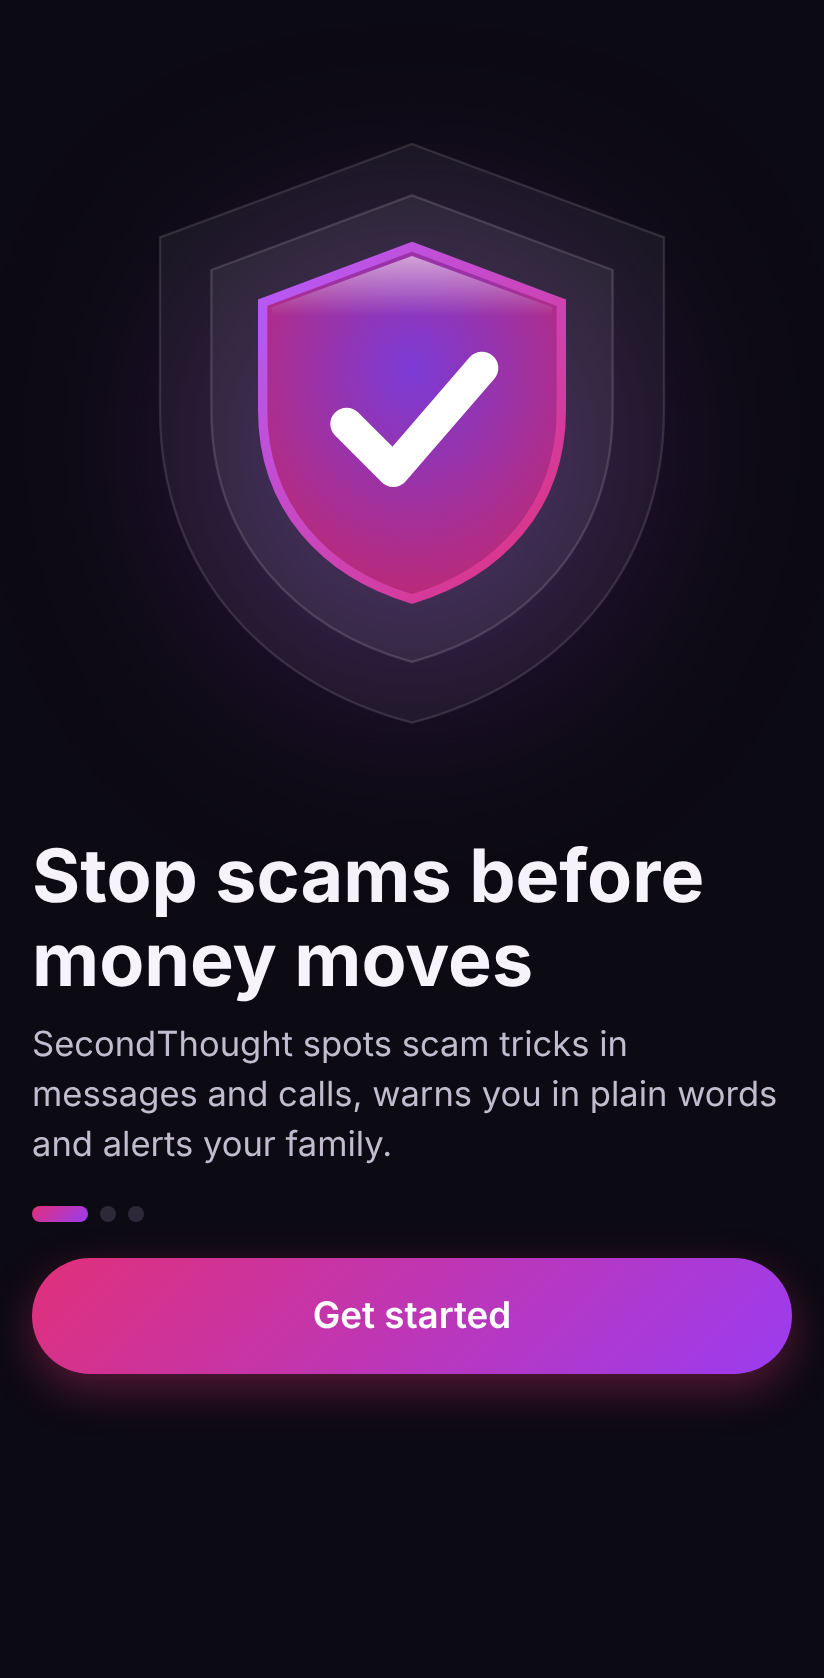
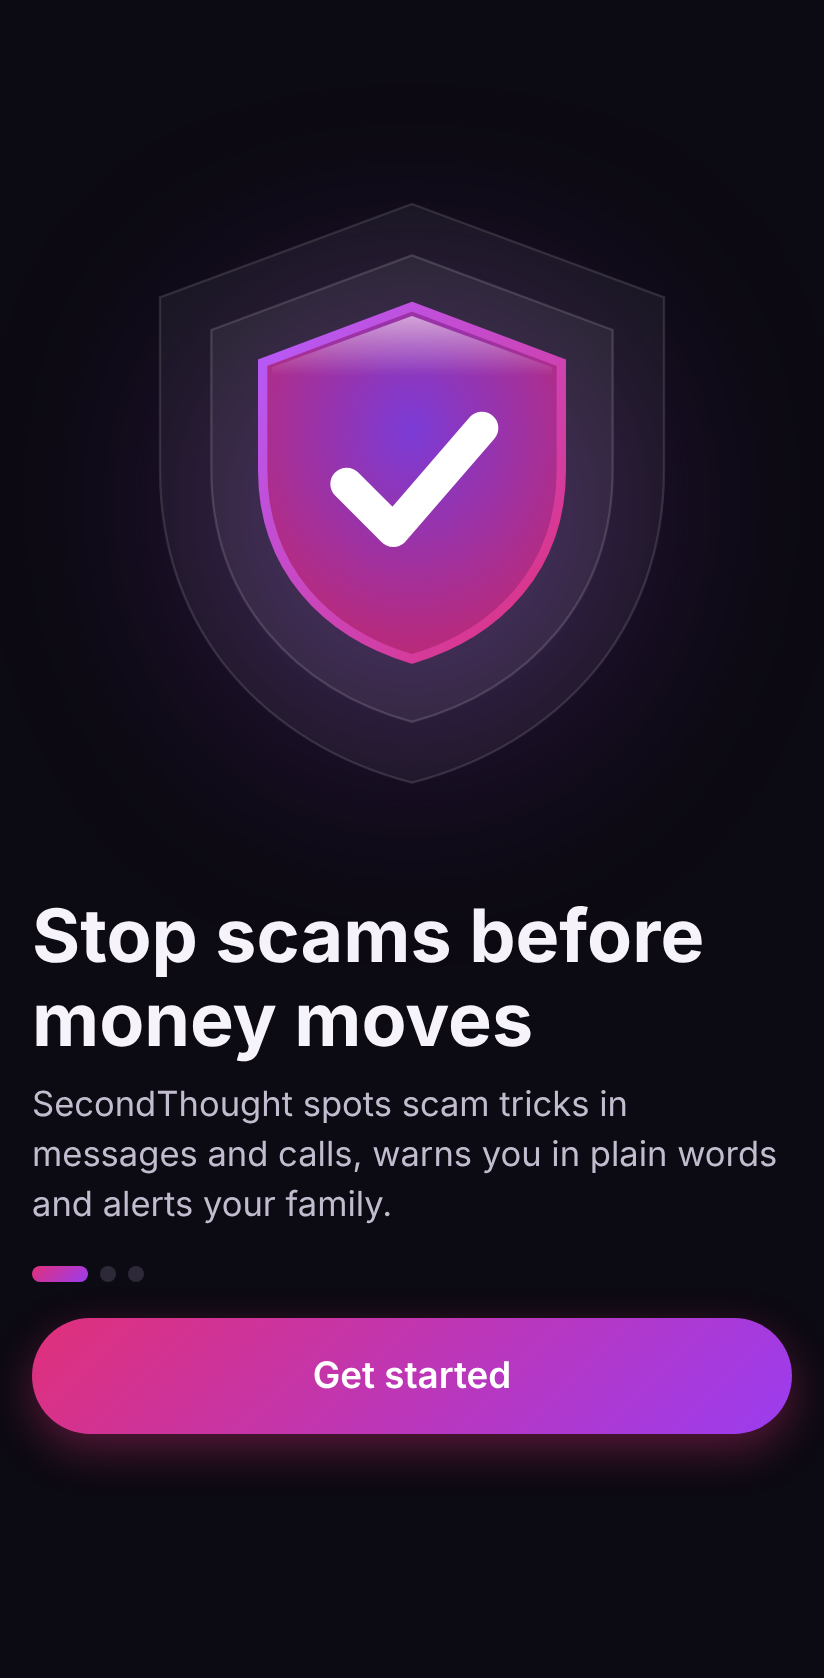
Parent setup means simple mode; sign out; status-bar spacing
- 'Setting up for a parent': asks who they should call for help, turns on large text and a simple
  home (big green Call button, Help card, the two main actions; stats and ScammerTrap stay in More)
- More -> Sign out (with confirmation) removes the profile and everything saved on this phone
- Welcome / profile screens no longer run under the status bar

Changed region(s): [[0.0303, 0.4958, 0.9709, 0.8677], [0.2427, 0.093, 0.7585, 0.4338]]

diff --git a/src/i18n_app.js b/src/i18n_app.js
@@ -1,6 +1,11 @@
 // Text for the Android app's own screens (easy home, unknown caller, setup, more).
 export const APP = {
   en: {
+    care_title: "Who should {name} call for help?", care_sub: "When something looks like a scam, {name} can call or message this person with one tap. Usually that's you.",
+    care_simple: "Simple mode is on for older users: large text and a simpler home screen. You can change it in More → Settings.",
+    care_later: "I'll do this later", simple_note: "Simple mode · set up by family",
+    signout: "Sign out", signout_q: "Sign out of SecondThought?", signout_sub: "This removes your profile and everything SecondThought saved on this phone: family contact, family code and counters. You can set it up again any time.",
+    signout_yes: "Sign out and remove", signout_no: "Cancel",
     splash_tag: "Think twice. Stay safe.", lock_title: "SecondThought is locked", lock_hello: "Welcome back, {name}",
     lock_sub: "Unlock with your fingerprint, face or phone PIN.", lock_unlock: "Unlock", lock_prompt_title: "Unlock SecondThought",
     lock_prompt_sub: "Use your fingerprint, face or phone PIN", lock_confirm_sub: "Confirm it's you to turn on the app lock",
@@ -70,6 +75,11 @@ export const APP = {
     family_title: "Family", family_watch: "I want alerts about someone else", family_watch_sub: "Enter the code from their phone.",
   },
   hi: {
+    care_title: "{name} मदद के लिए किसे फोन करें?", care_sub: "जब कुछ स्कैम जैसा लगे, {name} एक टैप में इस व्यक्ति को फोन या मैसेज कर सकते हैं। आमतौर पर वह आप हैं।",
+    care_simple: "बुज़ुर्गों के लिए आसान मोड चालू है: बड़े अक्षर और आसान होम स्क्रीन। इसे और → सेटिंग में बदल सकते हैं।",
+    care_later: "बाद में करूँगा", simple_note: "आसान मोड · परिवार ने सेट किया",
+    signout: "साइन आउट", signout_q: "SecondThought से साइन आउट करें?", signout_sub: "इससे आपकी प्रोफ़ाइल और इस फोन में सेव सब कुछ हट जाएगा: परिवार संपर्क, परिवार कोड और गिनती। आप कभी भी फिर से सेट कर सकते हैं।",
+    signout_yes: "साइन आउट करें और हटाएँ", signout_no: "रद्द करें",
     splash_tag: "दो बार सोचें। सुरक्षित रहें।", lock_title: "SecondThought लॉक है", lock_hello: "फिर से स्वागत है, {name}",
     lock_sub: "फिंगरप्रिंट, चेहरे या फोन पिन से खोलें।", lock_unlock: "खोलें", lock_prompt_title: "SecondThought खोलें",
     lock_prompt_sub: "फिंगरप्रिंट, चेहरा या फोन पिन इस्तेमाल करें", lock_confirm_sub: "ऐप लॉक चालू करने के लिए पुष्टि करें",
@@ -138,6 +148,11 @@ export const APP = {
     family_title: "परिवार", family_watch: "मुझे किसी और के अलर्ट चाहिए", family_watch_sub: "उनके फोन पर दिखा कोड डालें।",
   },
   es: {
+    care_title: "¿A quién debe llamar {name} si necesita ayuda?", care_sub: "Cuando algo parezca una estafa, {name} podrá llamar o escribir a esta persona con un toque. Normalmente eres tú.",
+    care_simple: "Modo sencillo activado para personas mayores: letra grande y una pantalla de inicio más simple. Puedes cambiarlo en Más → Ajustes.",
+    care_later: "Lo haré más tarde", simple_note: "Modo sencillo · configurado por la familia",
+    signout: "Cerrar sesión", signout_q: "¿Cerrar sesión en SecondThought?", signout_sub: "Se borrará tu perfil y todo lo que SecondThought guardó en este teléfono: contacto familiar, código familiar y contadores. Puedes volver a configurarlo cuando quieras.",
+    signout_yes: "Cerrar sesión y borrar", signout_no: "Cancelar",
     splash_tag: "Piénsalo dos veces. Mantente a salvo.", lock_title: "SecondThought está bloqueado", lock_hello: "Bienvenido de nuevo, {name}",
     lock_sub: "Desbloquea con tu huella, cara o PIN del teléfono.", lock_unlock: "Desbloquear", lock_prompt_title: "Desbloquear SecondThought",
     lock_prompt_sub: "Usa tu huella, cara o PIN del teléfono", lock_confirm_sub: "Confirma que eres tú para activar el bloqueo",

diff --git a/src/pages/Home.jsx b/src/pages/Home.jsx
@@ -22,6 +22,7 @@ export default function Home({ go, online }) {
   const trap = trapSummary();
   const cs = getCheckStats();
   const profile = getProfile();
+  const simple = profile?.role === "family";   // set up for a parent: simple mode
   const total = cs.scam + cs.suspicious + cs.safe;
   useEffect(() => { api.health().then((h) => setNetwork(h.intel_reports)).catch(() => {}); }, []);
 
@@ -72,6 +73,17 @@ export default function Home({ go, online }) {
       {isNative && st && !st.screeningSupported ? <div className="banner info"><Icon name="info" />{t("status_old_android")}</div> : null}
       {online === false ? <div className="banner info"><span className="pulse" />{t("server_waking")}</div> : null}
 
+      {simple ? (
+        <>
+          <div className="tiny">{t("simple_note")}</div>
+          {contact ? <button className="callbig" onClick={callFamily}><span className="ico"><Icon name="phone" /></span><span><strong>{t("call_name", { name: contact.name })}</strong><small>{contact.phone}</small></span></button> : null}
+          <button className="bigaction danger" onClick={help} disabled={busy}>
+            <span className="ico"><Icon name="users" /></span>
+            <span><strong>{t("home_help")}</strong><small>{helper ? t("home_help_sub", { name: helper }) : t("home_help_none")}</small></span>
+          </button>
+        </>
+      ) : (
+        <>
       <div className="summary">
         <h2>{t("sum_title")} <button className="iconbtn" style={{ width: 38, height: 38 }} onClick={() => go("/check")} aria-label={t("home_check")}><Icon name="search" /></button></h2>
         <VerdictGauge scam={cs.scam} suspicious={cs.suspicious} safe={cs.safe} label={`${total} ${t("sum_checked")}`} />
@@ -83,6 +95,9 @@ export default function Home({ go, online }) {
         <div className="statchip"><span className="tag sus">{t("chip_sus")}</span><span className="n">{cs.suspicious}</span><span className="l">{t("chip_note")}</span></div>
         <div className="statchip"><span className="tag safe">{t("chip_safe")}</span><span className="n">{cs.safe}</span><span className="l">{t("chip_note")}</span></div>
       </div>
+
+        </>
+      )}
 
       <div className="sectiontitle">{t("what_to_do")}</div>
       <div className="quickgrid">
@@ -96,6 +111,8 @@ export default function Home({ go, online }) {
         </button>
       </div>
 
+      {!simple ? (
+        <>
       <div className="card trap">
         <div className="row" style={{ alignItems: "flex-start", gap: 14 }}>
           <span className="trapico"><Icon name="bot" /></span>
@@ -115,6 +132,8 @@ export default function Home({ go, online }) {
         <span className="ico"><Icon name="users" /></span>
         <span><strong>{t("home_help")}</strong><small>{helper ? t("home_help_sub", { name: helper }) : t("home_help_none")}</small></span>
       </button>
+        </>
+      ) : null}
 
       {msg ? <div className={`banner ${msg.ok ? "good" : "bad"}`} role="status"><Icon name={msg.ok ? "check" : "alert"} />{msg.text}</div> : null}
       {contact && (msg?.call || msg?.ok === false) ? (

diff --git a/src/pages/More.jsx b/src/pages/More.jsx
@@ -1,5 +1,8 @@
 import Icon from "../components/Icon.jsx";
+import { useState } from "react";
 import { useT } from "../i18n.js";
+import { store } from "../api.js";
+import { useSession } from "../session.jsx";
 
 const ITEMS = [
   { path: "/protect?mode=demo", icon: "play", key: "more_practice" },
@@ -8,8 +11,19 @@ const ITEMS = [
   { path: "/setup", icon: "shield", key: "more_settings" },
 ];
 
+// Sign out = forget this phone's profile and everything SecondThought saved on it, then start again.
+const SAVED = ["profile", "setupDone", "familyContact", "guardian", "watchCode", "trapStats", "checkStats", "trapPersona", "large"];
+
 export default function More({ go }) {
   const t = useT();
+  const s = useSession();
+  const [confirm, setConfirm] = useState(false);
+  const signOut = async () => {
+    try { await s.reset(true); } catch { /* ignore */ }
+    SAVED.forEach((k) => store.set(k, null));
+    location.hash = "/welcome";
+    location.reload();
+  };
   return (
     <div className="stack">
       <h1>{t("more_title")}</h1>
@@ -26,6 +40,16 @@ export default function More({ go }) {
           {["privacy_1", "privacy_2", "privacy_3", "privacy_4"].map((k) => <li key={k}>{t(k)}</li>)}
         </ul>
       </div>
+      {!confirm ? (
+        <button className="btn block signout" onClick={() => setConfirm(true)}><Icon name="x" />{t("signout")}</button>
+      ) : (
+        <div className="card stack signout-card" role="alertdialog" aria-labelledby="so-title">
+          <h2 id="so-title" style={{ margin: 0 }}>{t("signout_q")}</h2>
+          <p className="muted" style={{ margin: 0 }}>{t("signout_sub")}</p>
+          <button className="btn danger big block" onClick={signOut}>{t("signout_yes")}</button>
+          <button className="btn big block" onClick={() => setConfirm(false)}>{t("signout_no")}</button>
+        </div>
+      )}
       <p className="tiny" style={{ textAlign: "center" }}>SecondThought · {t("more_version")} 1.0.0 · Team NeuroNova</p>
     </div>
   );

diff --git a/src/App.jsx b/src/App.jsx
@@ -18,6 +18,7 @@ import Report from "./pages/Report.jsx";
 import Setup from "./pages/Setup.jsx";
 import Welcome from "./pages/Welcome.jsx";
 import Profile from "./pages/Profile.jsx";
+import Caregiver from "./pages/Caregiver.jsx";
 import Splash from "./components/Splash.jsx";
 import LockScreen from "./components/LockScreen.jsx";
 import { getProfile, lockEnabled } from "./profile.js";
@@ -107,7 +108,8 @@ function Shell({ lang, setLang, large, setLarge }) {
     case "family": page = <Family go={go} />; break;
     case "more": page = <More go={go} />; break;
     case "welcome": page = <Welcome go={go} />; break;
-    case "profile": page = <Profile go={go} editing={Boolean(getProfile()) && store.get("setupDone")} next={getProfile() && store.get("setupDone") ? "/setup" : "/setup"} />; break;
+    case "profile": page = <Profile go={go} editing={Boolean(getProfile() && store.get("setupDone"))} next="/setup" setLarge={setLarge} />; break;
+    case "caregiver": page = <Caregiver go={go} />; break;
     case "setup": page = <Setup go={go} lang={lang} setLang={setLang} large={large} setLarge={setLarge} />; break;
     case "incoming": page = <Incoming key={qs} query={query} go={go} />; break;
     case "protect": page = <Shield go={go} query={query} />; break;
@@ -125,7 +127,7 @@ function Shell({ lang, setLang, large, setLarge }) {
       {splash === "off" && locked && base !== "incoming" ? <LockScreen name={getProfile()?.name} onUnlock={() => setLocked(false)} /> : null}
     </>
   );
-  if (base === "welcome" || base === "profile") return <div className="app"><main>{page}</main>{overlay}</div>;
+  if (base === "welcome" || base === "profile" || base === "caregiver") return <div className="app"><main className="bare">{page}</main>{overlay}</div>;
 
   return (
     <div className="app">

diff --git a/src/styles.css b/src/styles.css
@@ -533,3 +533,12 @@ a { color: #ff7fb2; }
 .toggle i::after { content: ""; position: absolute; top: 4px; left: 4px; width: 24px; height: 24px; border-radius: 50%; background: #fff; transition: transform .2s; }
 .toggle input:checked + i { background: var(--grad); }
 .toggle input:checked + i::after { transform: translateX(22px); }
+main.bare { padding-top: max(46px, calc(env(safe-area-inset-top) + 16px)); }
+.callbig { display: flex; width: 100%; gap: 16px; align-items: center; text-align: left; padding: 20px 18px; min-height: 96px; border-radius: var(--radius); border: 0; cursor: pointer; font: inherit; color: #fff;
+  background: linear-gradient(135deg, #1fa863, #2fd27a); box-shadow: 0 12px 28px rgba(47, 210, 122, 0.3); }
+.callbig .ico { display: grid; place-items: center; width: 56px; height: 56px; border-radius: 18px; background: rgba(255, 255, 255, 0.22); flex: none; }
+.callbig .ico svg { width: 30px; height: 30px; }
+.callbig strong { display: block; font-size: 1.35rem; }
+.callbig small { display: block; opacity: .9; font-size: 1rem; }
+.btn.signout { margin-top: 6px; color: #ff8a95; border-color: rgba(255, 77, 94, 0.35); background: rgba(255, 77, 94, 0.08); }
+.signout-card { border-color: rgba(255, 77, 94, 0.45); }

diff --git a/src/components/FamilyContact.jsx b/src/components/FamilyContact.jsx
@@ -33,7 +33,7 @@ export default function FamilyContact({ onSaved }) {
       <h2><Icon name="phone" style={{ width: 20, height: 20, verticalAlign: "-4px" }} /> {t("contact_title")}</h2>
       <p className="muted">{t("contact_sub")}</p>
       <div><label className="field" htmlFor="fc-name">{t("contact_name")}</label>
-        <input id="fc-name" className="input" value={name} maxLength={40} onChange={(e) => setName(e.target.value)} placeholder="Hari" /></div>
+        <input id="fc-name" className="input" value={name} maxLength={40} onChange={(e) => setName(e.target.value)} placeholder="e.g. Huzaifa (son)" /></div>
       <div><label className="field" htmlFor="fc-phone">{t("contact_phone")}</label>
         <input id="fc-phone" className="input" type="tel" inputMode="tel" value={phone} maxLength={20} onChange={(e) => setPhone(e.target.value)} placeholder="+91 98765 43210" /></div>
       <button className="btn primary big block" disabled={!valid} onClick={save}><Icon name="check" />{t("contact_save")}</button>

diff --git a/src/pages/Profile.jsx b/src/pages/Profile.jsx
@@ -6,7 +6,7 @@ import { isNative, ST } from "../native.js";
 import { getProfile, setProfile } from "../profile.js";
 
 // "Create your profile": a name, who the app protects, and the optional fingerprint / face / PIN lock.
-export default function Profile({ go, next = "/setup", editing = false }) {
+export default function Profile({ go, next = "/setup", editing = false, setLarge }) {
   const t = useT();
   const saved = getProfile() || {};
   const [name, setName] = useState(saved.name || "");
@@ -28,7 +28,9 @@ export default function Profile({ go, next = "/setup", editing = false }) {
       catch (e) { setErr(e.message); return; }
     }
     setProfile({ name: name.trim().slice(0, 40), role, lock: useLock });
-    go(next);
+    if (role === "family" && saved.role !== "family") setLarge?.(true);   // simple mode for older users: large text
+    if (role === "self" && saved.role === "family") setLarge?.(false);
+    go(role === "family" && !editing ? "/caregiver" : next);
   };
 
   return (

diff --git a/src/pages/Caregiver.jsx b/src/pages/Caregiver.jsx
@@ -1,0 +1,21 @@
+import FamilyContact, { getContact } from "../components/FamilyContact.jsx";
+import Icon from "../components/Icon.jsx";
+import { useT } from "../i18n.js";
+import { getProfile } from "../profile.js";
+
+// "Setting up for a parent": who should they call when something looks wrong? (usually the person setting it up)
+export default function Caregiver({ go }) {
+  const t = useT();
+  const name = getProfile()?.name || "";
+  return (
+    <div className="stack">
+      <div>
+        <h1 style={{ marginBottom: 4 }}>{t("care_title", { name })}</h1>
+        <p className="muted" style={{ margin: 0 }}>{t("care_sub", { name })}</p>
+      </div>
+      <div className="banner info"><Icon name="info" />{t("care_simple")}</div>
+      <FamilyContact onSaved={() => go("/setup")} />
+      <button className="btn ghost block" onClick={() => go("/setup")}>{getContact() ? t("profile_continue") : t("care_later")}</button>
+    </div>
+  );
+}
